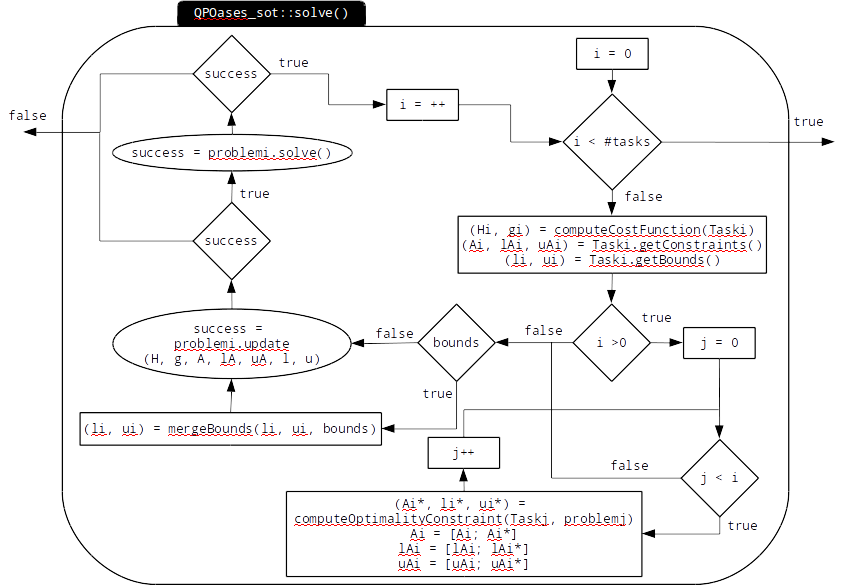
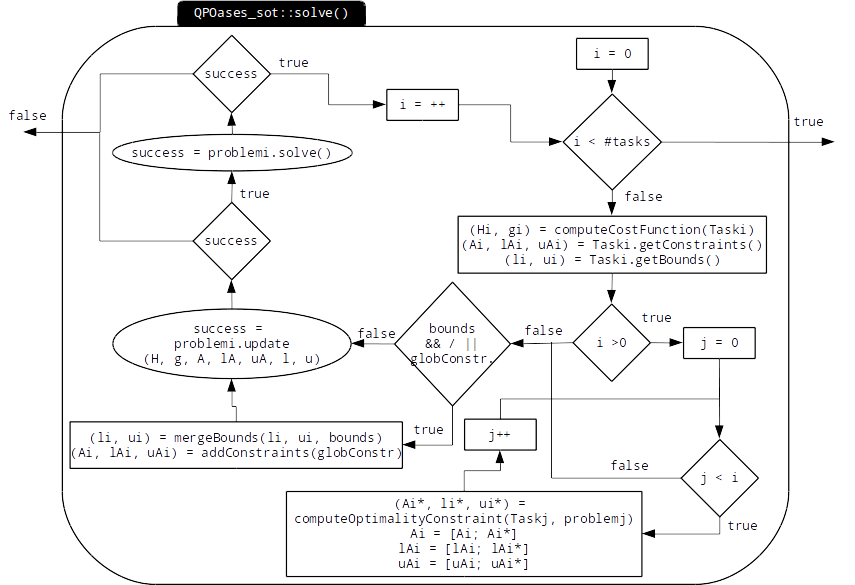
added missing test file. added updated documentation for the solver.

Changed region(s): [[0.0608, 0.4923, 0.8515, 0.8308], [0.6994, 0.4, 0.8211, 0.4308]]

diff --git a/src/solvers/README.md b/src/solvers/README.md
@@ -29,11 +29,11 @@ When the problem is solved, the following state machine is used:
 
 ![QPOasesProblem::solve()](https://github.com/robotology-playground/OpenSoT/blob/qp_solver/doc/QPOasesProblem.solve.png)
 
-In the solve, the first solution is attempted using the <em>hotstart</em> functionality of qpOASES. If it fails, a second soluton is attempted with the initialization with initial guess given from the previous bounds, constraints and solution. If also this fails the init is called as last attempt.
+In the solve, the first solution is attempted using the <em>hotstart</em> functionality of qpOASES. If it fails, a second soluton is attempted with the initialization with initial guess given from the previous bounds (aka <em>warmstart</em>), constraints and solution. If also this fails the init is called as last attempt.
 
 QPOases_sot:
 ------------
-This class implements the state machine dedicated to solve the Stack of Tasks. There are some important aspects to be noticed: first the solver takes a vector of tasks and a list of bounds. The assumption done here is that each task in the vector may contains or not some constraints. These constraints are NOT passed to the following task. This means that, if a constraint is present in two different tasks at a differen level in the stack, it has to be added explicitely before the creation of the solver. Second, the bounds are applied to ALL the stacks since they regards directly the variables of all the problems.
+This class implements the state machine dedicated to solve the Stack of Tasks. There are some important aspects to be noticed: first the solver takes a vector of tasks and a list of bounds. The assumption done here is that each task in the vector may contains or not some constraints. These constraints are NOT passed to the following task. This means that, if a constraint is present in two different tasks at a differen level in the stack, it has to be added explicitely before the creation of the solver. Second, the bounds are applied to ALL the stacks since they regards directly the variables of all the problems. We consider also the global constraints that are added to all the stacks. These global constraints are passed directly to the solver as for the bounds.
 
 The stack is created and initialized in the constructor and if something goes wrong, an exception is thrown. 
 
